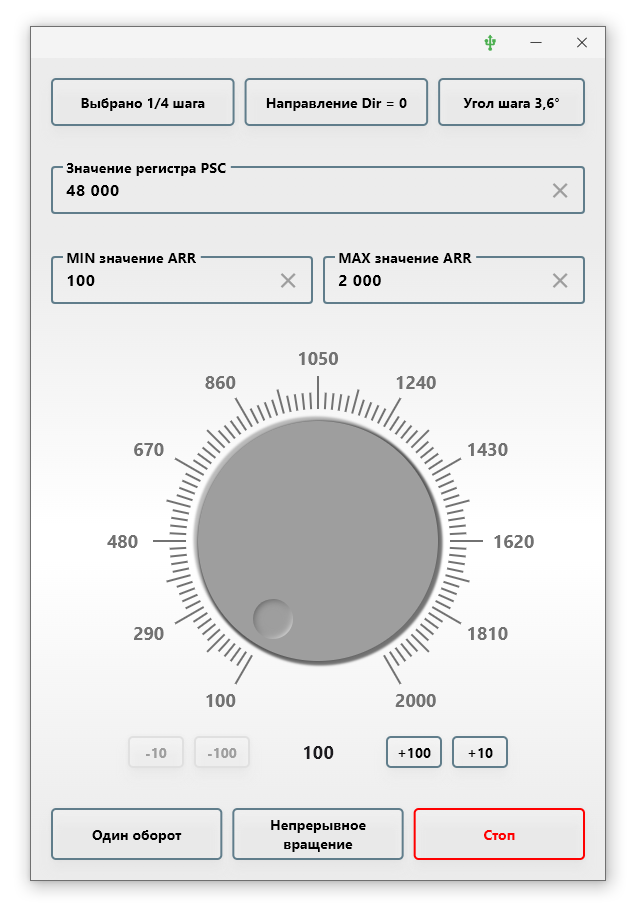
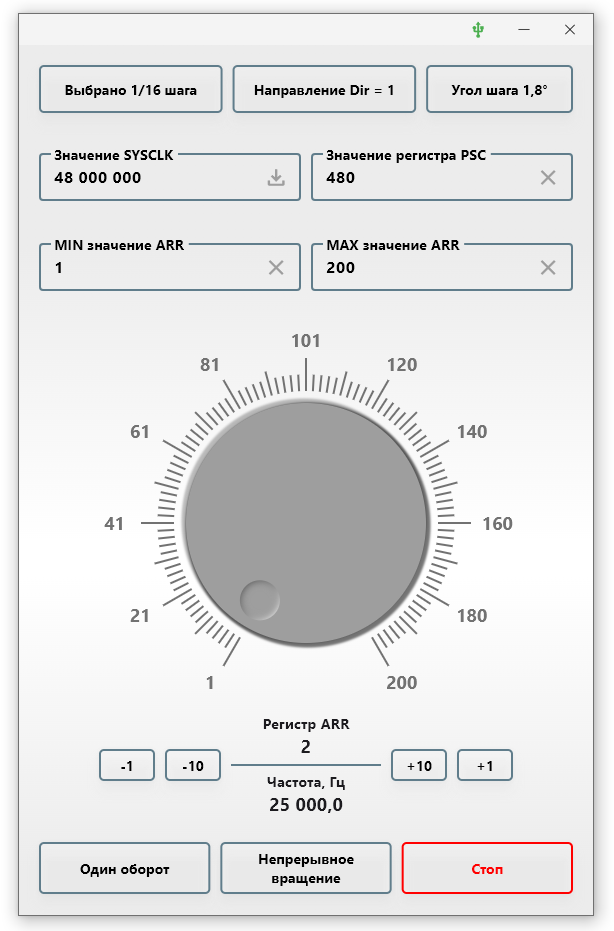
Update README.md

diff --git a/README.md b/README.md
@@ -4,8 +4,25 @@
 
 <p align="center">
     <img src="git_image/image.png" style="height: 909; width: 637; object-fit: contain">
-</p>
+</p>  
 
 #### Описание
 Приложение для операционной системы Windows.
+
+Код для микроконтроллера STM32F103 расположен по адресу:  
+
+https://github.com/sergeyerofeev/Projects_on_STM32F103/tree/main/stepper_motor_test  
+
+Частота ШИМ выходного сигнала, которая подаётся на вход DIR драйвера A4988, рассчитывается исходя 
+из переданного значения SYSCLK, предделителя PSC и установленного значения ARR.  
+
+Значение тактовой частоты SYSCLK можно установить вручную, либо получить текущее, нажав на кнопку 
+загрузки в поле ввода.  
+
+Для выбора доступны следующие значения:
+- микрошаг: Полный шаг, 1/2, 1/4, 1/8, 1/16  
+- угол шага (количество шагов): 0,9&deg; (400), 1,8&deg; (200), 3,6&deg; (100), 5,625&deg; (64), 7,5&deg; (48)  
+
+При закрытии приложения на микроконтроллер отправляется команда на остановку двигателя, сохраняются 
+все введённые/выбранные значения. При следующем запуске текущие значения будут восстановлены. 
 
